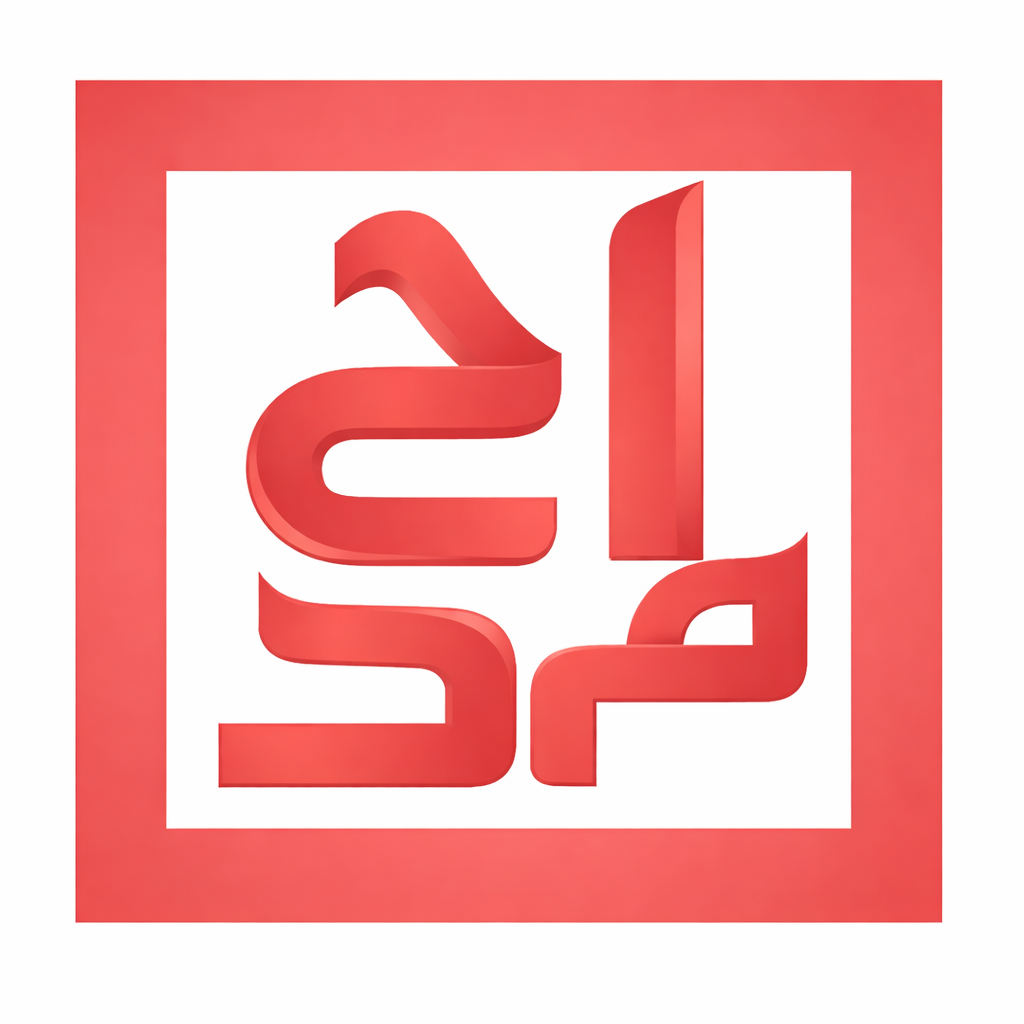
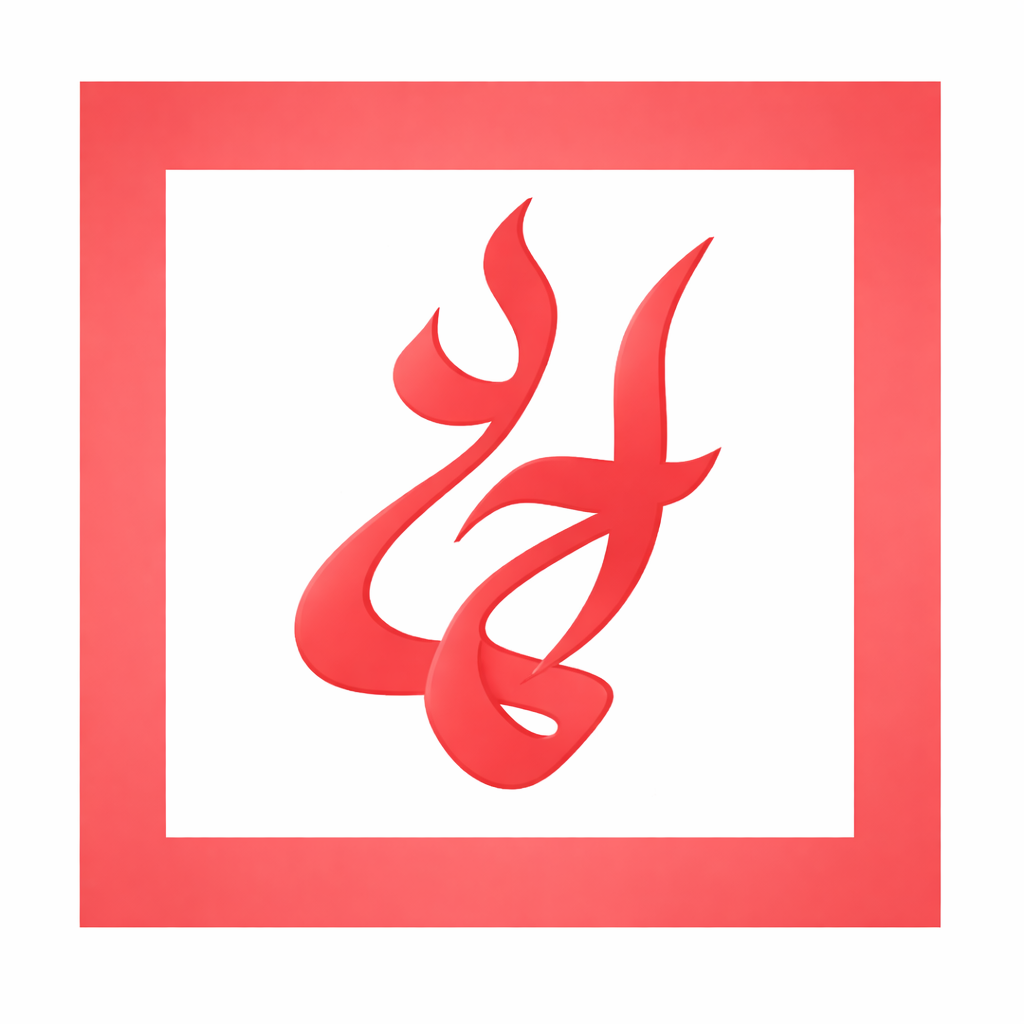
Update site branding and fix FLT slides link

diff --git a/public/papers/integrating-climate-goals-into-trade-agreements.html b/public/papers/integrating-climate-goals-into-trade-agreements.html
@@ -231,7 +231,7 @@
   <h1><span>A Framework for Integrating Climate Goals into Trade Agreements</span></h1>
   <p class="subtitle">Farid Farrokhi (Boston College)</p><p class="subtitle">Ahmad Lashkaripour (Indiana University, CESifo, CEPR)</p><p class="subtitle">Homa Taheri (Indiana University)</p>
   <p class="subtitle paper-citation-line">Working paper &middot; March 2026</p>
-  <p class="paper-links-line"><a href="../FLT_2025.pdf">Read PDF</a> · <a href="../sources/integrating-climate-goals-into-trade-agreements.md">Markdown source</a> · <a href="../paper-reader.html?data=paper-reader-data/integrating-climate-goals-into-trade-agreements/paper.xml">Reader view</a> · <a href="../BL_Slides_ASSA_2022.pdf">Slides</a></p>
+  <p class="paper-links-line"><a href="../FLT_2025.pdf">Read PDF</a> · <a href="../sources/integrating-climate-goals-into-trade-agreements.md">Markdown source</a> · <a href="../paper-reader.html?data=paper-reader-data/integrating-climate-goals-into-trade-agreements/paper.xml">Reader view</a> · <a href="../FLT_slides.pdf">Slides</a></p>
   <div id="abstract">
     <p><strong>Abstract.</strong> This paper develops a framework for integrating carbon pricing into existing international trade agreements, which traditionally have overlooked climate concerns. We start by showing that: (i) Countries benefiting most from trade agreements also generate higher trade-related emissions. (ii) National-level carbon taxes create pecuniary terms-of-trade externalities, causing the burden of carbon taxes imposed in one country to fall onto consumers elsewhere. Finding (i) indicates that contingent trade reforms that link market access to carbon pricing could effectively reduce emissions. However, due to the pecuniary externalities described by (ii), a redistribution mechanism may be necessary to equalize the tax burden internationally. To address this, we propose a Global Climate Fund to redistribute border-related carbon tax revenues. Quantitative analysis reveals that even a simple fund allocation mechanism could incorporate carbon pricing of up to $119 per ton of CO2 within current trade regimes, achieving a 50% reduction in global emissions.</p>
   </div>

diff --git a/public/Research.html b/public/Research.html
@@ -198,7 +198,7 @@
     <a href="FLT_2025.pdf">A Framework for Integrating Climate Goals into Trade Agreements</a>
   </div>
   <div class="paper-meta">(March 2026 &ndash; with <em>Farid Farrokhi, Homa Taheri</em>)</div>
-  <div class="paper-links"><a href="#" onclick="toggleAbstract(this); return false;">[Abstract]</a> <a href="papers/integrating-climate-goals-into-trade-agreements.html">[HTML]</a> <a href="FLT_2025.pdf">[PDF]</a> <a href="BL_Slides_ASSA_2022.pdf">[slides]</a></div>
+  <div class="paper-links"><a href="#" onclick="toggleAbstract(this); return false;">[Abstract]</a> <a href="papers/integrating-climate-goals-into-trade-agreements.html">[HTML]</a> <a href="FLT_2025.pdf">[PDF]</a> <a href="FLT_slides.pdf">[slides]</a></div>
   <div class="paper-abstract">
     <p>This paper develops a framework for integrating carbon pricing into existing international trade agreements, which traditionally have overlooked climate concerns. We start by showing that: (i) Countries benefiting most from trade agreements also generate higher trade-related emissions. (ii) National-level carbon taxes create pecuniary terms-of-trade externalities, causing the burden of carbon taxes imposed in one country to fall onto consumers elsewhere. Finding (i) indicates that contingent trade reforms that link market access to carbon pricing could effectively reduce emissions. However, due to the pecuniary externalities described by (ii), a redistribution mechanism may be necessary to equalize the tax burden internationally. To address this, we propose a Global Climate Fund to redistribute border-related carbon tax revenues. Quantitative analysis reveals that even a simple fund allocation mechanism could incorporate carbon pricing of up to $119 per ton of CO2 within current trade regimes, achieving a 50% reduction in global emissions.</p>
   </div>

diff --git a/authoring/content/papers/integrating-climate-goals-into-trade-agreements.md b/authoring/content/papers/integrating-climate-goals-into-trade-agreements.md
@@ -48,7 +48,7 @@ latex_main: FLT_Spring2026.tex
 latex_engine: pdflatex
 sort_order: 2
 published_url: null
-slides_url: BL_Slides_ASSA_2022.pdf
+slides_url: FLT_slides.pdf
 working_paper_url: null
 online_appendix_url: null
 dashboard_url: null

diff --git a/public/sources/integrating-climate-goals-into-trade-agreements.md b/public/sources/integrating-climate-goals-into-trade-agreements.md
@@ -48,7 +48,7 @@ latex_main: FLT_Spring2026.tex
 latex_engine: pdflatex
 sort_order: 2
 published_url: null
-slides_url: BL_Slides_ASSA_2022.pdf
+slides_url: FLT_slides.pdf
 working_paper_url: null
 online_appendix_url: null
 dashboard_url: null
